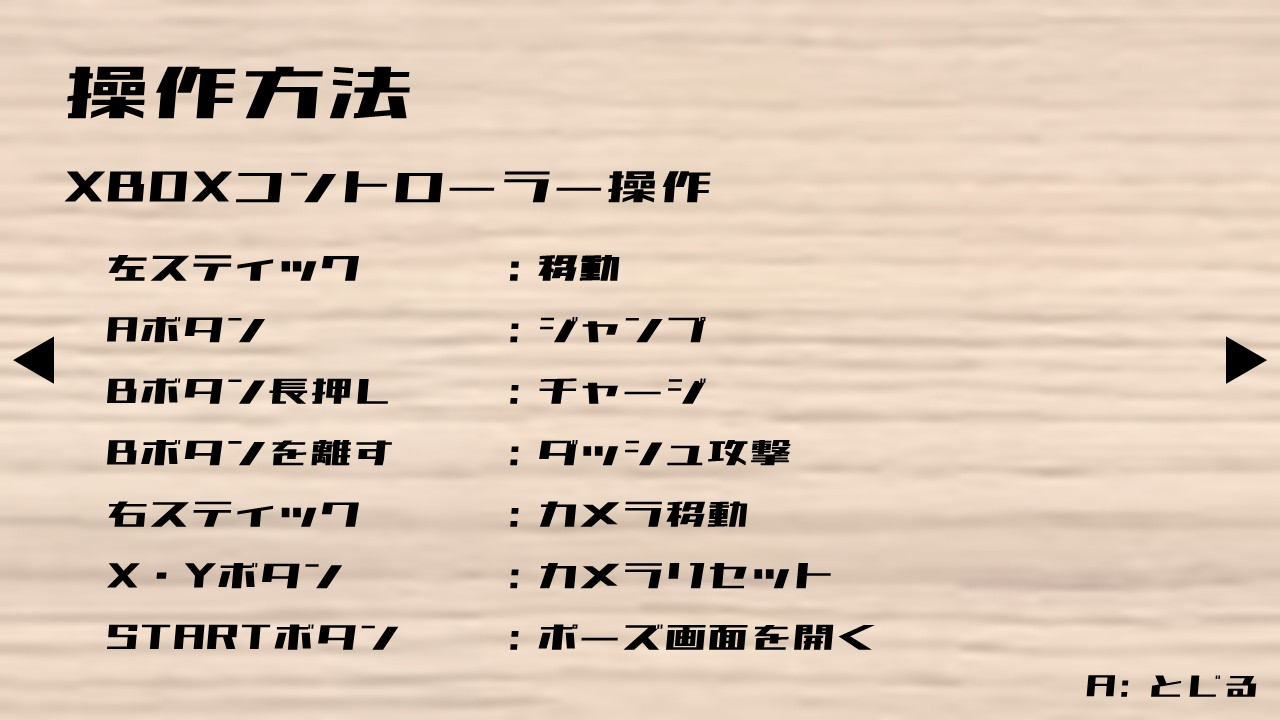
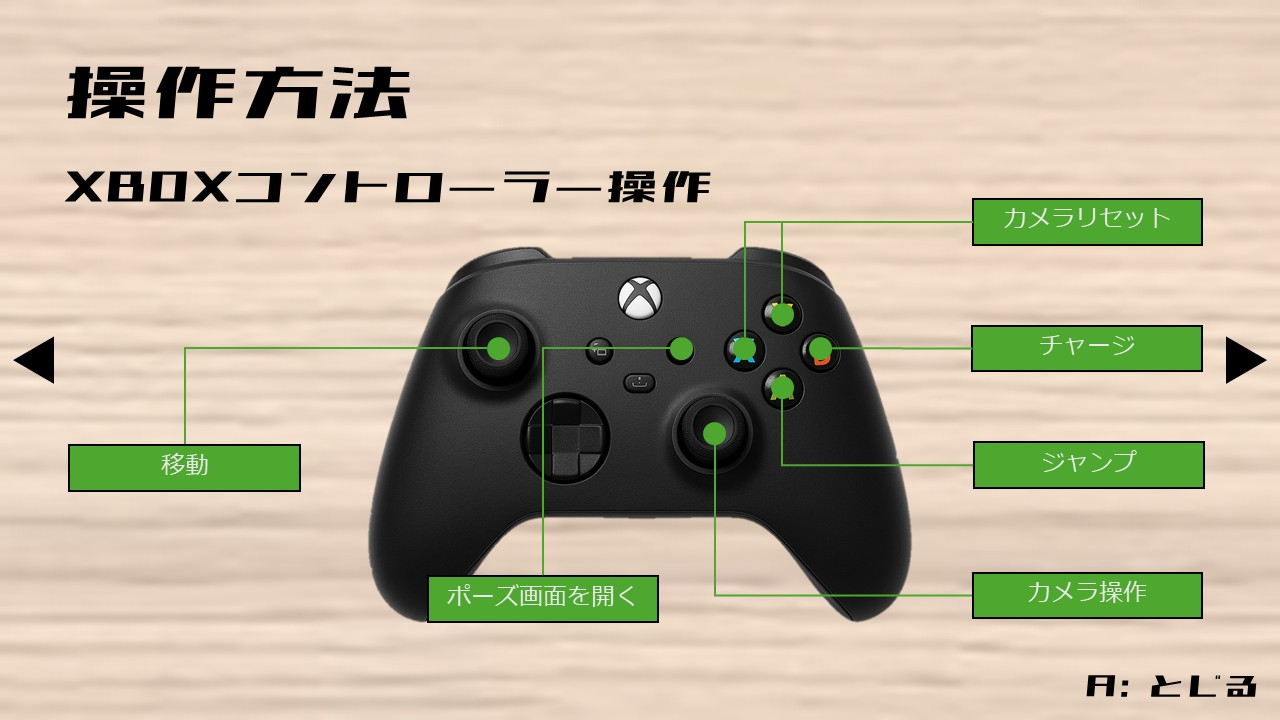
PlaySceneの名称変更・あそびかた画像差し替え

Changed region(s): [[0.0312, 0.275, 0.9688, 0.9167], [0.0625, 0.3361, 0.2812, 0.3972], [0.0625, 0.4278, 0.2812, 0.4889]]

diff --git a/UISourceFile/HUD.cpp b/UISourceFile/HUD.cpp
@@ -554,7 +554,7 @@ void HUD::DrawImGuiExplanation()
 		{
 			ImGui::InputFloat("ExplanationRotateX", &LogoExplanation.rotate_.x, ZeroPointOne);
 			ImGui::InputFloat("ExplanationRotateY", &LogoExplanation.rotate_.y, ZeroPointOne);
-			ImGui::InputFloat("ExplanationRotateY", &LogoExplanation.rotate_.y, ZeroPointOne);
+			ImGui::InputFloat("ExplanationRotateZ", &LogoExplanation.rotate_.y, ZeroPointOne);
 			ImGui::TreePop();
 		}
 		if (ImGui::TreeNode("ExplanationScale"))
@@ -587,7 +587,7 @@ void HUD::DrawImGuiStartLogo()
 		{
 			ImGui::InputFloat("StartRotateX", &LogoStart.rotate_.x, ZeroPointOne);
 			ImGui::InputFloat("StartRotateY", &LogoStart.rotate_.y, ZeroPointOne);
-			ImGui::InputFloat("StartRotateY", &LogoStart.rotate_.y, ZeroPointOne);
+			ImGui::InputFloat("StartRotateZ", &LogoStart.rotate_.y, ZeroPointOne);
 			ImGui::TreePop();
 		}
 		if (ImGui::TreeNode("StartScale"))
@@ -619,7 +619,7 @@ void HUD::DrawImGuiFinishLogo()
 		{
 			ImGui::InputFloat("FinishRotateX", &LogoFinish.rotate_.x, ZeroPointOne);
 			ImGui::InputFloat("FinishRotateY", &LogoFinish.rotate_.y, ZeroPointOne);
-			ImGui::InputFloat("FinishRotateY", &LogoFinish.rotate_.y, ZeroPointOne);
+			ImGui::InputFloat("FinishRotateZ", &LogoFinish.rotate_.y, ZeroPointOne);
 			ImGui::TreePop();
 		}
 		if (ImGui::TreeNode("FinishScale"))
